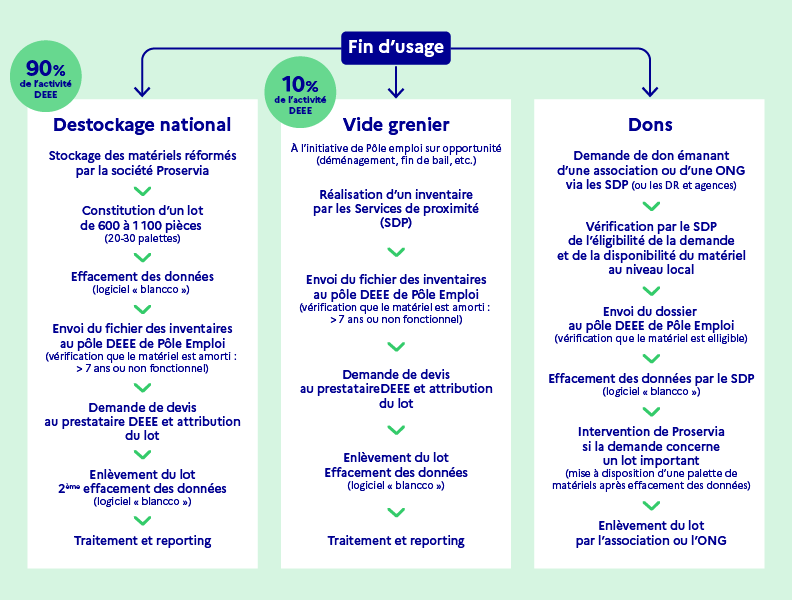
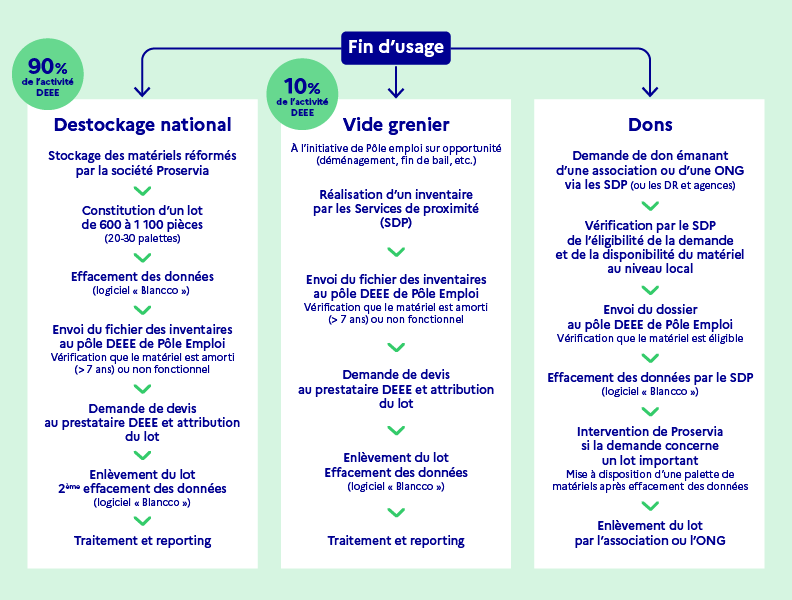
Corrections fin usage

diff --git a/publications/fin-usage/cycle-de-vie.md b/publications/fin-usage/cycle-de-vie.md
@@ -19,7 +19,9 @@ Il y a trois états dans la vie d’un produit
 * Occasion
 * Déchet
 
-Un objet neuf ou d’occasion peut faire l’objet d’un réemploi qui peut prendre les formes suivantes : 
+## Un équipement neuf ou d’occasion peut faire l’objet d’un réemploi
+
+Ce réemploi peut prendre les formes suivantes. 
 
 ### 1. Remise en état
 
@@ -57,3 +59,12 @@ Pour en savoir plus, voir la bonne pratique [Réemployer en vendant les équipem
 </div>
 
 Lors du transfert de propriété d’un objet neuf ou d’occasion à l’unité, on parle de cession. Si l’objet passe de l’état neuf ou d’occasion à l’état de déchet, il s’agit d’un abandon, et on le compte alors en kilogrammes.
+
+## Un équipement non fonctionnel et non réparable est à valoriser
+
+On distingue différents types de valorisation des déchets :
+* Valorisation matière
+    * Réutilisation
+    * Recyclage
+    * Remblayage
+* Valorisation énergétique

diff --git a/publications/fin-usage/enjeux-recyclage.md b/publications/fin-usage/enjeux-recyclage.md
@@ -56,7 +56,6 @@ On distingue différents types de valorisation des déchets, dont les définitio
 Selon les chiffres 2020 de l'ADEME : 
 
 * Taux de réutilisation et recyclage : 76 %
-
 * Taux de valorisation: 87 %
 
 ## Les obligations du détenteur de déchets
